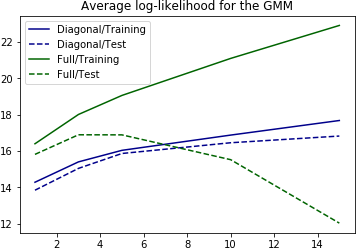
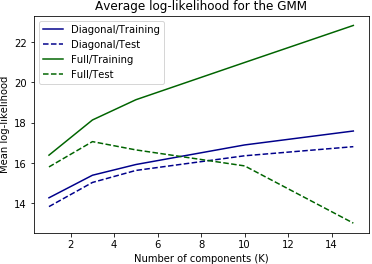
3.6 no axes

diff --git a/Assignment_2.tex b/Assignment_2.tex
@@ -687,10 +687,10 @@ number & size \\\hline
 
 			\hline 
  & 1 & 3 & 5 & 10 & 15\\ \hline
-Diagonal/Training & 14.28 & 15.40 & 16.01 & 16.88 & 17.68 \\ \hline
-Diagonal/Test & 13.84 & 15.04 & 15.91 & 16.73 & 17.03 \\ \hline
-Full/Training & 16.39 & 18.05 & 19.19 & 21.02 & 22.99 \\ \hline
-Full/Test & 15.81 & 17.00 & 16.64 & 14.72 & 11.78 \\ \hline
+Diagonal/Training & 14.28 & 15.40 & 15.93 & 16.90 & 17.59 \\ \hline
+Diagonal/Test & 13.84 & 15.04 & 15.64 & 16.36 & 16.81 \\ \hline
+Full/Training & 16.39 & 18.14 & 19.14 & 20.99 & 22.82 \\ \hline
+Full/Test & 15.81 & 17.06 & 16.65 & 15.86 & 13.02 \\ \hline
 
 			\end{tabular} 
 		\end{center}
